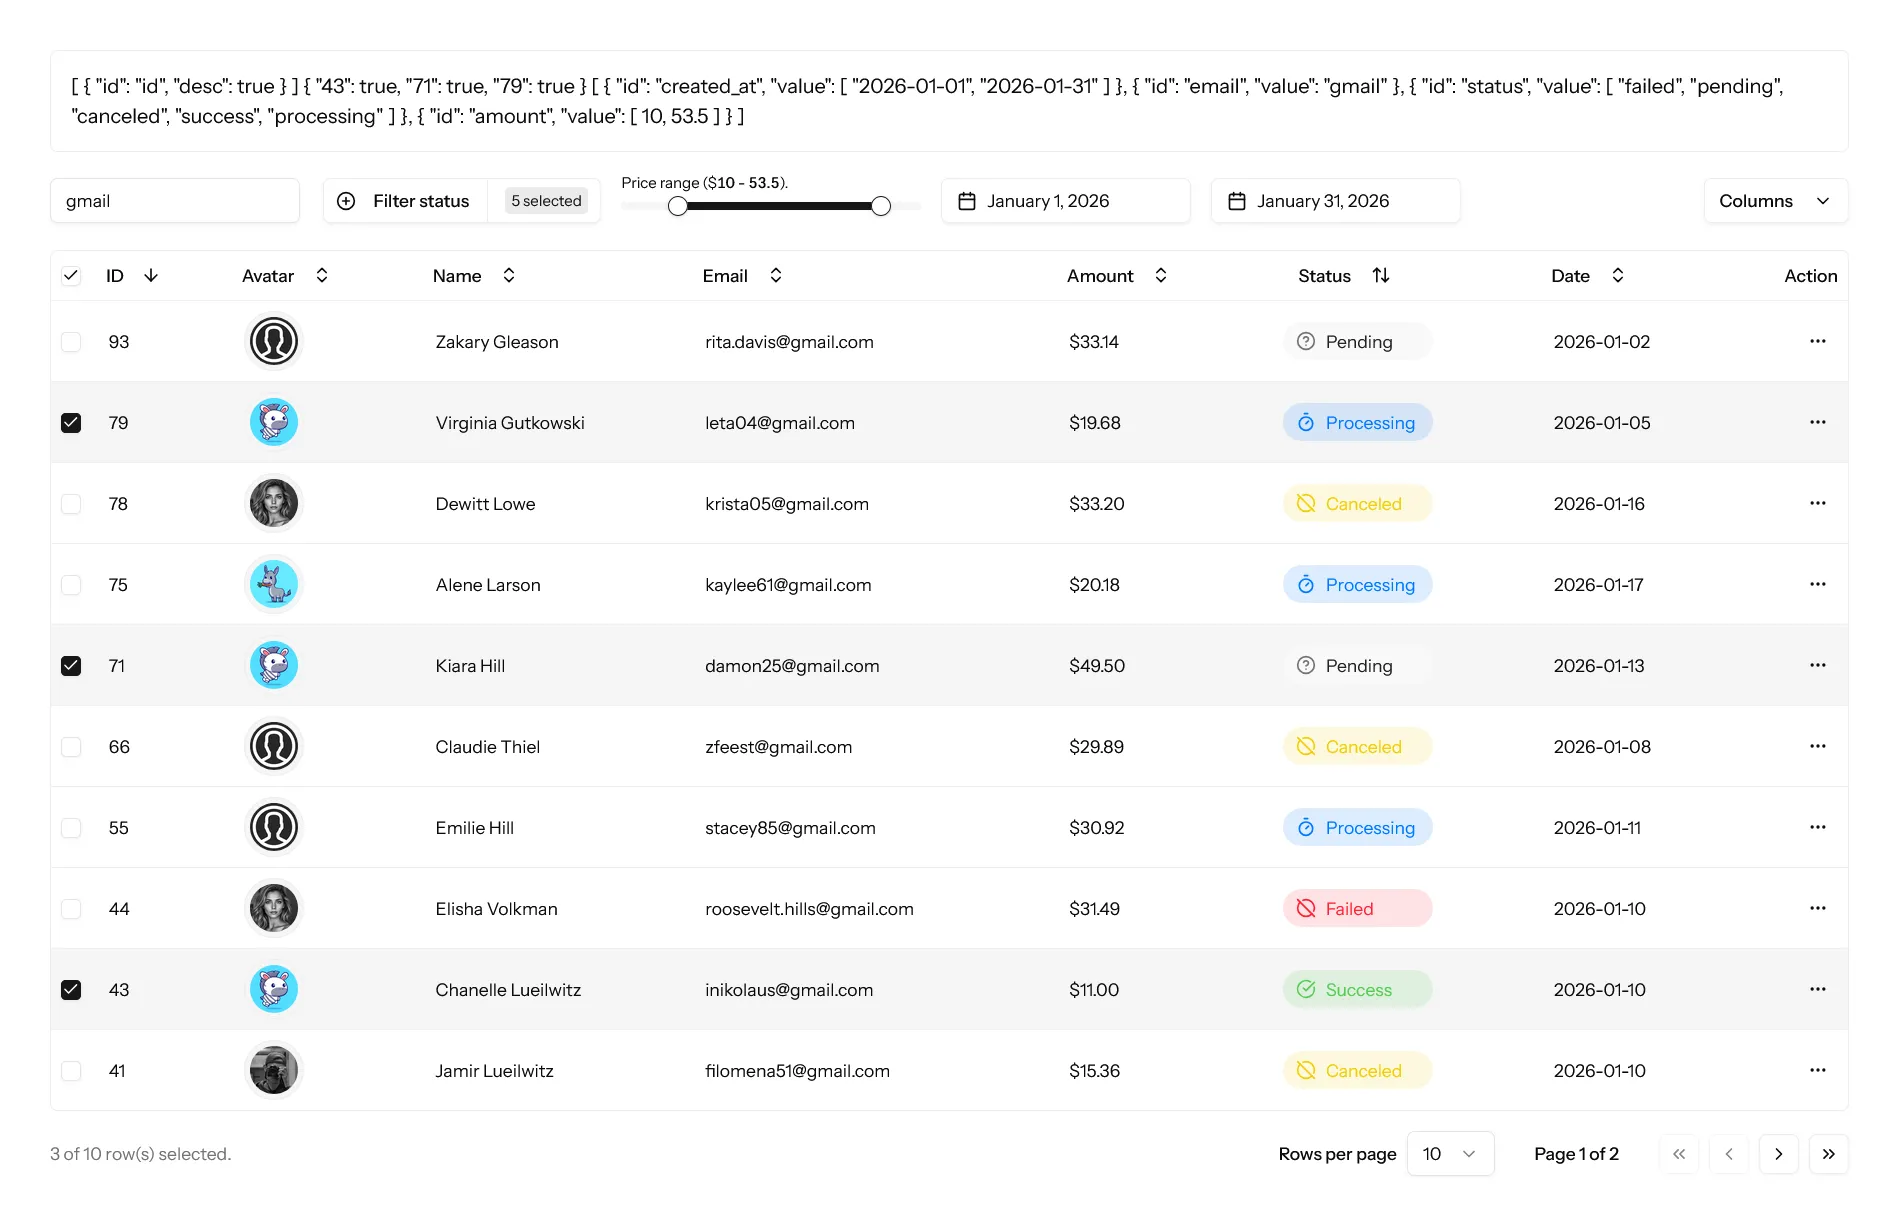
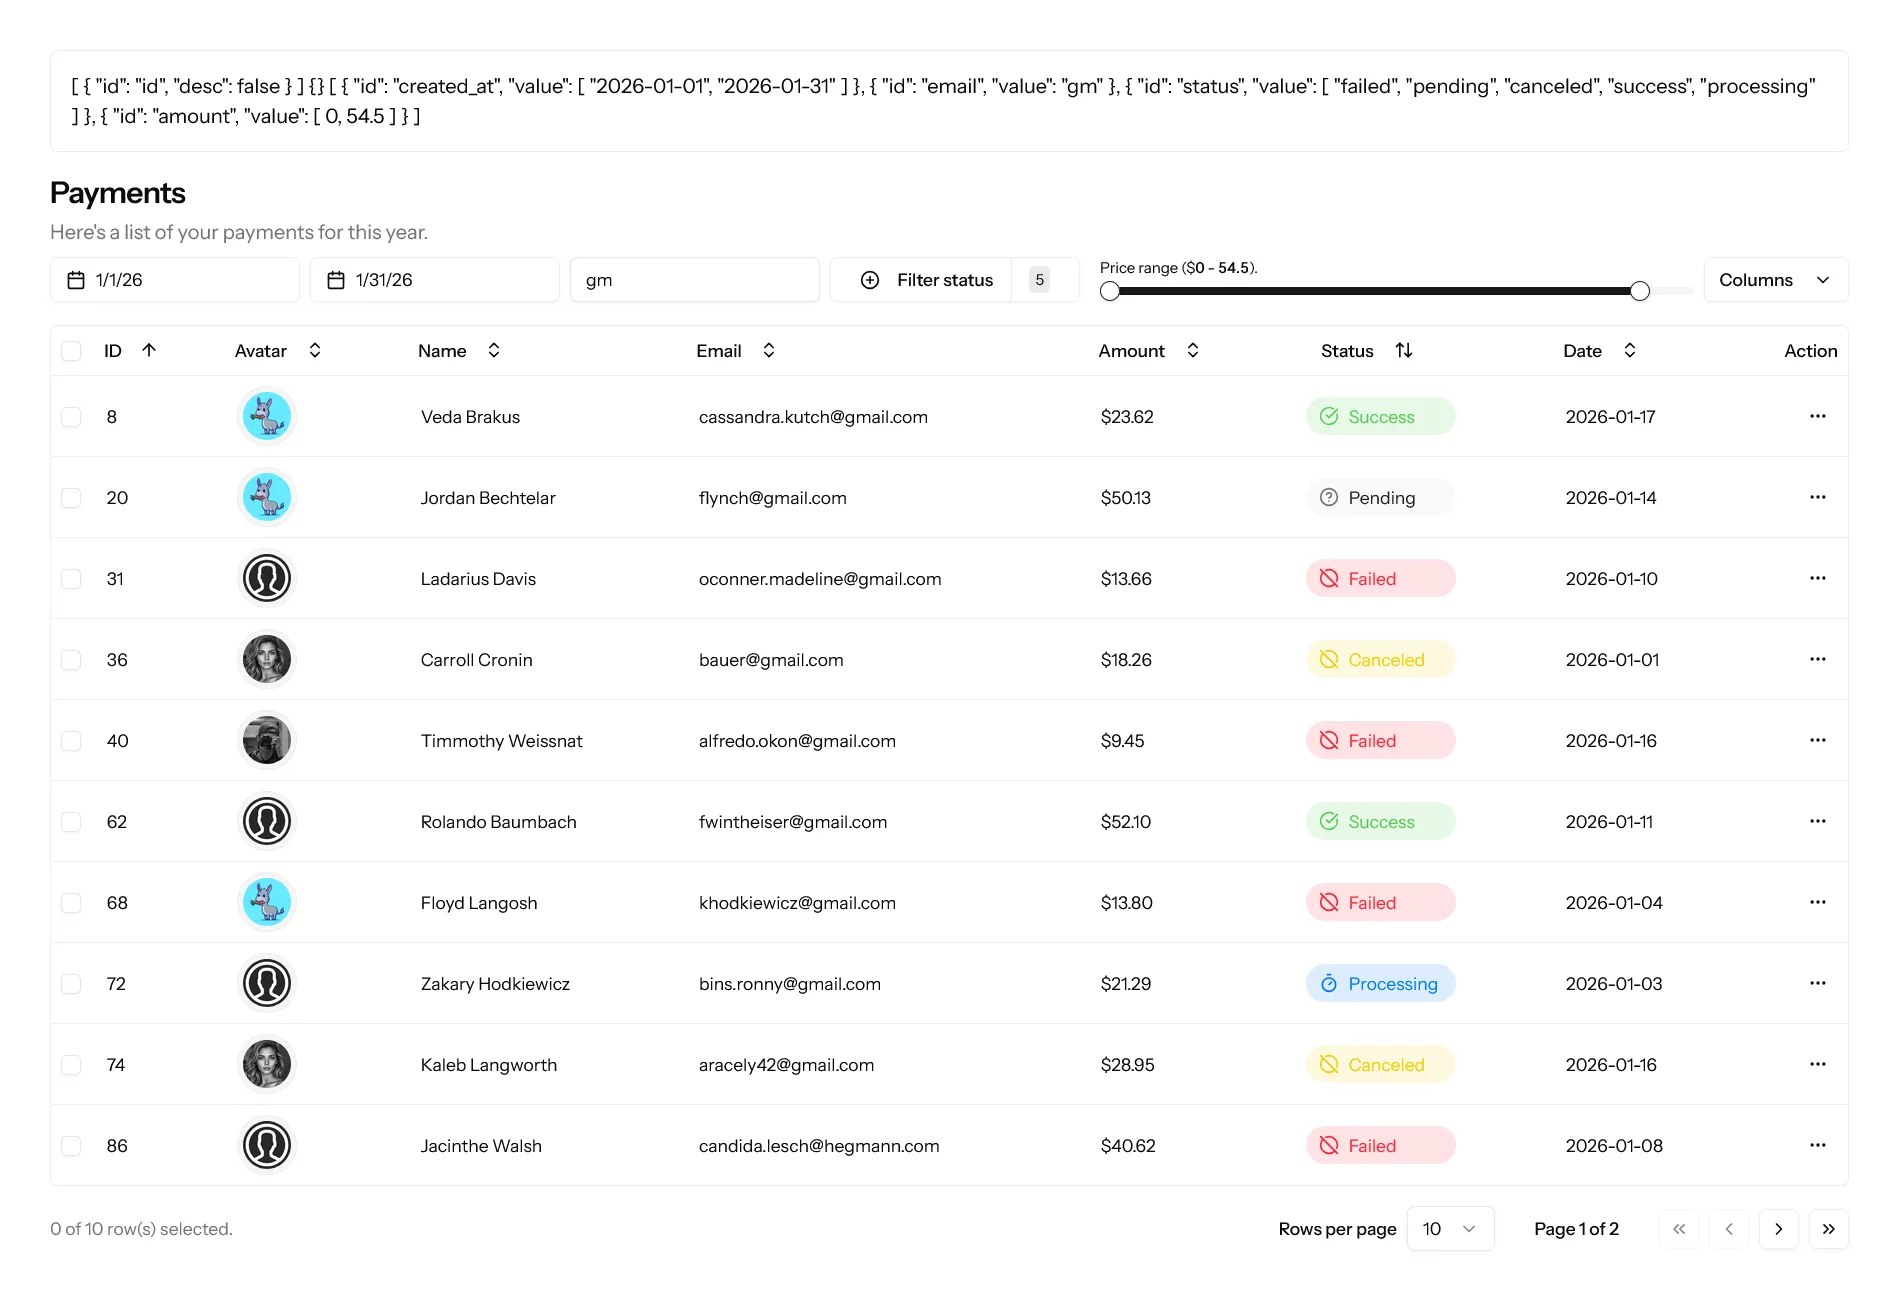
Update

diff --git a/resources/js/pages/Payments/Index.vue b/resources/js/pages/Payments/Index.vue
@@ -154,7 +154,7 @@ const datePlaceholder = today(getLocalTimeZone())
 const fdate = ref<DateValue>()
 const tdate = ref<DateValue>()
 const df = new DateFormatter('en-US', {
-  dateStyle: 'long',
+	dateStyle: 'short'
 })
 
 watch(props, (n) => {
@@ -166,36 +166,18 @@ watch(props, (n) => {
 	<div class="full p-10">
 		<div class="rounded-md border mb-4 p-4" v-if="sorting">{{ sorting }} {{ rowSelection }} {{ columnFilters }} {{ props.filter_errors }}</div>
 
-		<div class="flex items-center my-4">
-			<Input
-				class="h-9 max-w-50 mr-2" placeholder="Filter emails"
-				:model-value="table.getColumn('email')?.getFilterValue() as string"
-				@update:model-value="table.getColumn('email')?.setFilterValue($event)"
-			/>
+		<div class="flex flex-col gap-1">
+			<h2 class="text-2xl font-semibold tracking-tight">Payments</h2>
+			<p class="text-muted-foreground">Here's a list of your payments for this year.</p>
+		</div>
 
-			<div v-for="filter in filter_toolbar" :key="filter.title" class="mr-2">
-				<Filter :column="table.getColumn(filter.column)" :title="filter.title" :options="filter.data"></Filter>
-			</div>
-
-			<div class="w-full max-w-60 mx-2">
-				<div class="text-xs">Price range ($<span class="font-medium tabular-nums">{{ slider[0] }}</span> - <span class="font-medium tabular-nums">{{ slider[1] }}</span>).</div>
-				<Slider
-					v-model="slider"
-					@update:model-value="table.getColumn('amount')?.setFilterValue($event)"
-					:min="0"
-					:max="amount_max"
-					:step="0.5"
-					class="mt-2 w-full mb-4"
-					aria-label="Price Range"
-				/>
-			</div>
-
-			<div class="mx-2">
+		<div class="flex flex-col my-2 lg:flex-row gap-2">
+			<div class="date-box flex">
 				<Popover v-slot="{ close }">
 					<PopoverTrigger as-child>
 						<Button
 							variant="outline"
-							:class="cn('w-50 justify-start text-left font-normal', !fdate && 'text-muted-foreground')"
+							:class="cn('w-50 justify-start text-left font-normal mr-2', !fdate && 'text-muted-foreground')"
 						>
 							<CalendarIcon />
 							{{ fdate ? df.format(fdate.toDate(getLocalTimeZone())) : "Start date" }}
@@ -215,9 +197,6 @@ watch(props, (n) => {
 						/>
 					</PopoverContent>
 				</Popover>
-			</div>
-
-			<div class="mx-2">
 				<Popover v-slot="{ close }">
 					<PopoverTrigger as-child>
 						<Button
@@ -243,12 +222,35 @@ watch(props, (n) => {
 					</PopoverContent>
 				</Popover>
 			</div>
+			<div class="filter-box flex">
+				<Input
+					class="w-full h-9 min-w-50 max-w-50 mr-2" placeholder="Filter emails"
+					:model-value="table.getColumn('email')?.getFilterValue() as string"
+					@update:model-value="table.getColumn('email')?.setFilterValue($event)"
+				/>
+
+				<div v-for="filter in filter_toolbar" :key="filter.title" class="md:w-full mr-2 max-w-50">
+					<Filter :column="table.getColumn(filter.column)" :title="filter.title" :options="filter.data"></Filter>
+				</div>
+			</div>
+
+			<div class="w-full">
+				<div class="text-xs">Price range ($<span class="font-medium tabular-nums">{{ slider[0] }}</span> - <span class="font-medium tabular-nums">{{ slider[1] }}</span>).</div>
+				<Slider
+					v-model="slider"
+					@update:model-value="table.getColumn('amount')?.setFilterValue($event)"
+					:min="0"
+					:max="amount_max"
+					:step="0.5"
+					class="mt-2 w-full mb-4"
+					aria-label="Price Range"
+				/>
+			</div>
 
 			<DropdownMenu>
 				<DropdownMenuTrigger as-child>
 					<Button variant="outline" class="ml-auto"> Columns <ChevronDown class="ml-2 h-4 w-4" /> </Button>
 				</DropdownMenuTrigger>
-
 				<DropdownMenuContent align="end">
 					<DropdownMenuCheckboxItem
 						v-for="column in table.getAllColumns().filter((column) => column.getCanHide())"
@@ -268,7 +270,6 @@ watch(props, (n) => {
 		</div>
 
 		<div class="rounded-md border">
-
 			<Table>
 				<TableHeader>
 					<TableRow v-for="headerGroup in table.getHeaderGroups()" :key="headerGroup.id">

diff --git a/resources/js/components/payments/FilterOriginal.vue b/resources/js/components/payments/FilterOriginal.vue
@@ -38,18 +38,19 @@ const filterFunction = (val, term) => {
 <template>
     <Popover>
         <PopoverTrigger as-child>
-            <Button variant="outline" size="sm" class="w-full min-w-50 max-w-50 h-9 mr-2">
+            <Button variant="outline" size="sm" class="h-9 mr-2">
                 <CirclePlus class="mr-2 h-4 w-4" />
                 {{ title }}
-                <template v-if="selectedValues.size >= 0">
+                <template v-if="selectedValues.size > 0">
                     <Separator orientation="vertical" class="mx-2 h-4" />
                     <Badge variant="secondary" class="rounded-sm px-1 font-normal lg:hidden">
                         {{ selectedValues.size }}
                     </Badge>
                     <div class="hidden space-x-1 lg:flex">
-                        <Badge v-if="selectedValues.size >= 0" variant="secondary" class="rounded-sm px-1 font-normal">
-                            {{ selectedValues.size }}
+                        <Badge v-if="selectedValues.size > 2" variant="secondary" class="rounded-sm px-1 font-normal">
+                            {{ selectedValues.size }} selected
                         </Badge>
+
                         <template v-else>
                             <Badge v-for="option in options
                                 .filter((option) => selectedValues.has(option.value))" :key="option.value" variant="secondary" class="rounded-sm px-1 font-normal">
